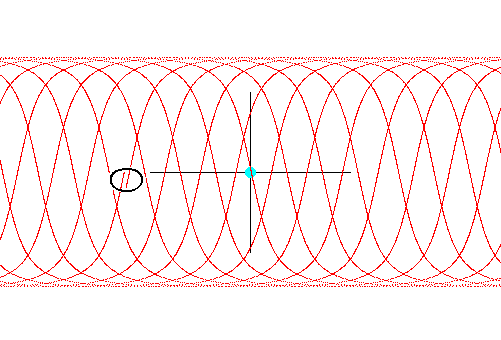
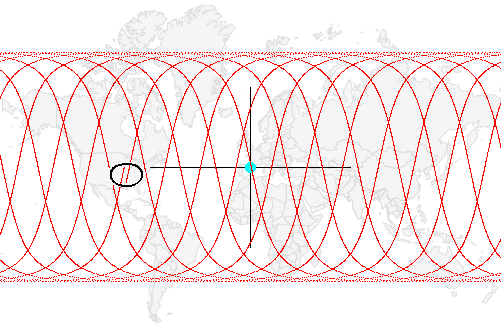
figure vladimir

diff --git a/rapport/vladimir.tex b/rapport/vladimir.tex
@@ -38,19 +38,19 @@ Trajectoire de satellite dans un syst\`eme des coordonn\'ees fixe. }
 
 
  
-% Sa projection sur la Terre tournante est donn\'ee sur la \autoref{vladimir:mks}. 
-% On a l'habitude de voir les trajectoires comme celle-ci dans les
-% centres de contr\^ole des missions spatiales.
-%  Comme on le voit clairement, la trajectoire g\'en\'erique n'est pas p\'eriodique
-%  (\autoref{vladimir:mks}, zone entourée).
+Sa projection sur la Terre tournante est donn\'ee sur la \autoref{vladimir:mks}. 
+On a l'habitude de voir les trajectoires comme celle-ci dans les
+centres de contr\^ole des missions spatiales.
+ Comme on le voit clairement, la trajectoire g\'en\'erique n'est pas p\'eriodique
+ (\autoref{vladimir:mks}, zone entourée).
 
 
-% \begin{figure}[htp] \centering
-%       \includegraphics*[height=3in]{mks.png}
-%       \caption{
-%             \label{vladimir:mks}
-% Proj\'ection de traj\'ectoire de satellite}
-%  \end{figure}
+\begin{figure}[htp] \centering
+      \includegraphics*[height=3in]{mks.png}
+      \caption{
+            \label{vladimir:mks}
+Projection de trajectoire de satellite}
+ \end{figure}
  
 
 \subsection{La loi de probabilit\'e d'observation}
